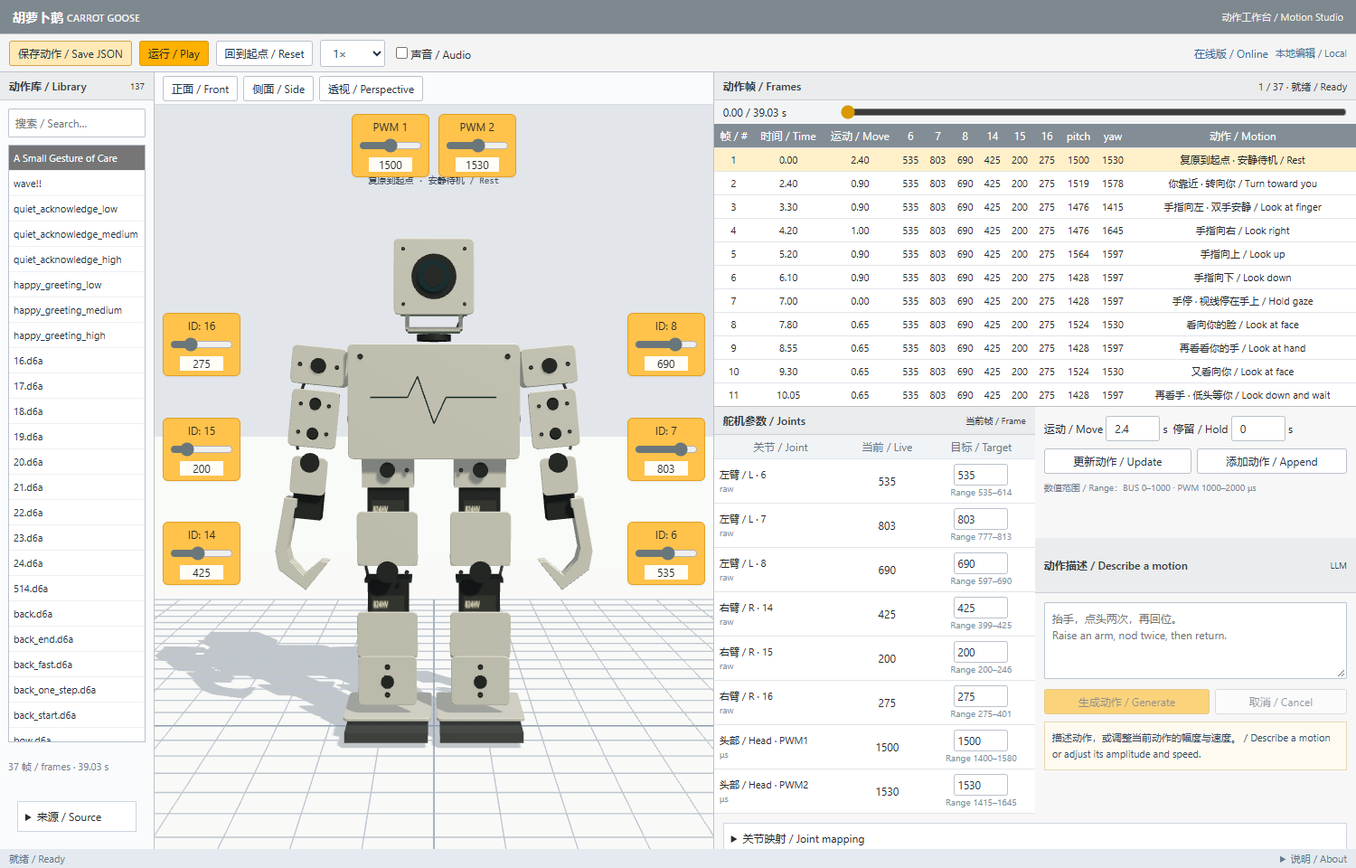
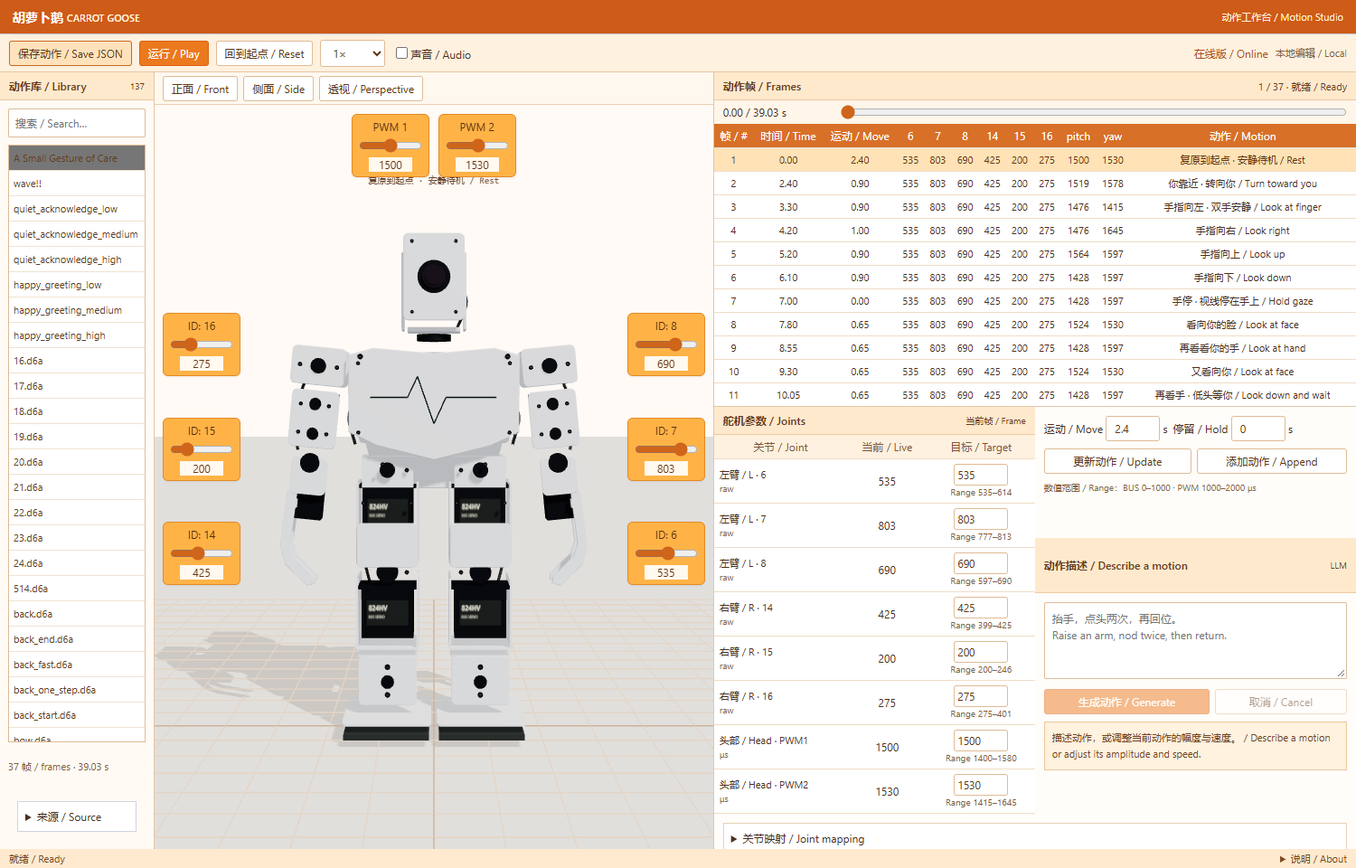
Refine TonyPi model and launch orange workbench on carrotgoose.online

diff --git a/apps/studio/robot.js b/apps/studio/robot.js
@@ -2,7 +2,7 @@ import * as T from 'three';
 // Photo-based approximation. Dimensions and hinge placement are not factory CAD.
 export function createRobot(scene){
  const mat=(c,m=0)=>new T.MeshStandardMaterial({color:c,metalness:m,roughness:.38});
- const white=mat('#e4e6e1',.45),black=mat('#202424',.15),metal=mat('#959f9e',.8),rubber=mat('#393d3c'),blue=mat('#183740',.5);
+ const white=mat('#f7f8fb',.12),black=mat('#171a20',.08),metal=mat('#959f9e',.8),rubber=mat('#393d3c'),blue=mat('#322632',.3);
  const root=new T.Group();scene.add(root);const joints={};
  function group(p,n,xyz){let g=new T.Group();g.name=n;g.position.set(...xyz);p.add(g);return g;}
  function mesh(p,geo,xyz,material=white){let m=new T.Mesh(geo,material);m.position.set(...xyz);m.castShadow=true;m.receiveShadow=true;p.add(m);return m;}
@@ -13,14 +13,20 @@ export function createRobot(scene){
  function label(p,text,pos,w,h){let c=document.createElement('canvas');c.width=256;c.height=128;let ctx=c.getContext('2d');ctx.fillStyle='#242826';ctx.fillRect(0,0,256,128);ctx.fillStyle='#e0dfcc';ctx.font='bold 34px sans-serif';ctx.fillText(text,12,52);ctx.font='18px sans-serif';ctx.fillText('BUS SERVO',12,91);let tex=new T.CanvasTexture(c);tex.colorSpace=T.SRGBColorSpace;return mesh(p,new T.PlaneGeometry(w,h),pos,new T.MeshStandardMaterial({map:tex,roughness:.7}));}
  function servo(p,pos,w=.035,h=.049){box(p,pos,[w,h,.035],black);box(p,[pos[0],pos[1]+h/2,pos[2]],[w+.006,.003,.038],black);label(p,'824HV',[pos[0],pos[1],pos[2]+.0178],w*.8,h*.5);}
  function wire(p,points){let curve=new T.CatmullRomCurve3(points.map(v=>new T.Vector3(...v)));return mesh(p,new T.TubeGeometry(curve,24,.0015,6,false),[0,0,0],rubber);}
- // Torso sheet metal, exposed side cavity and circuit enclosure.
- plate(root,[0,.311,.036],.156,.104);plate(root,[0,.311,-.035],.15,.1);box(root,[0,.352,0],[.147,.005,.07]);box(root,[0,.265,0],[.123,.005,.061]);box(root,[0,.315,-.015],[.115,.07,.038],black);
+ function polygon(p,points,z,material=white){const s=new T.Shape();s.moveTo(...points[0]);points.slice(1).forEach(v=>s.lineTo(...v));s.closePath();return mesh(p,new T.ExtrudeGeometry(s,{depth:.002,bevelEnabled:true,bevelSize:.001,bevelThickness:.0008,bevelSegments:3}),[0,0,z],material);}
+ // Folded shield panels and waist bracket follow the front reference.
+
+ polygon(root,[[-.077,.353],[-.055,.359],[0,.354],[.055,.359],[.077,.353],[.077,.284],[.052,.272],[0,.259],[-.052,.272],[-.077,.284]],.036);
+ plate(root,[0,.315,-.035],.145,.087);box(root,[0,.353,0],[.147,.004,.07]);box(root,[0,.279,-.012],[.118,.004,.052]);box(root,[0,.32,-.017],[.112,.062,.031],black);
+ polygon(root,[[-.066,.282],[.066,.282],[.052,.231],[-.052,.231]],.004);
+ for(const side of [-1,1]){box(root,[side*.075,.315,0],[.002,.068,.067]);for(const y of [.346,.283,.254])screw(root,side*(y<.26?.047:.069),y,.04,.0018);}
+
  const pulse=[[-.058,.315,.039],[-.024,.315,.039],[-.015,.334,.039],[0,.291,.039],[.011,.315,.039],[.057,.315,.039]];root.add(new T.Line(new T.BufferGeometry().setFromPoints(pulse.map(p=>new T.Vector3(...p))),new T.LineBasicMaterial({color:0x172623})));
  for(const side of [-1,1]){wire(root,[[side*.061,.34,-.029],[side*.082,.3,-.031],[side*.075,.27,-.01]]);screw(root,side*.067,.352,.04);}
  // Bracketed head: yaw ring, U bracket, tilting camera casing.
  cylinder(root,[0,.371,0],.016,.006,black).rotation.x=0;
- joints.yaw=group(root,'PWM2_yaw',[0,.378,0]);box(joints.yaw,[0,0,0],[.049,.004,.034]);for(const side of [-1,1])box(joints.yaw,[side*.025,.018,0],[.003,.036,.036]);
- joints.pitch=group(joints.yaw,'PWM1_pitch',[0,.047,0]);plate(joints.pitch,[0,0,.029],.072,.068,[[0,0,.02]]);box(joints.pitch,[0,0,-.008],[.063,.059,.051],white);box(joints.pitch,[0,-.027,.001],[.063,.01,.054],white);cylinder(joints.pitch,[0,0,.03],.0205,.006,black);cylinder(joints.pitch,[0,0,.034],.0145,.006,blue);cylinder(joints.pitch,[0,0,.038],.010,.0015,black);for(const x of [-.028,.028])for(const y of [-.025,.025])screw(joints.pitch,x,y,.032,.0016);wire(joints.yaw,[[.021,0,-.017],[.031,.03,-.024],[.02,.049,-.029]]);
+ joints.yaw=group(root,'PWM2_yaw',[0,.378,0]);box(joints.yaw,[0,0,0],[.049,.004,.034]);for(const side of [-1,1])box(joints.yaw,[side*.029,.035,0],[.002,.07,.042]);
+ joints.pitch=group(joints.yaw,'PWM1_pitch',[0,.047,0]);plate(joints.pitch,[0,0,.029],.055,.078,[[0,-.001,.014]]);box(joints.pitch,[0,0,-.008],[.05,.069,.044],white);box(joints.pitch,[0,-.027,.001],[.05,.007,.047],white);cylinder(joints.pitch,[0,0,.03],.015,.004,black);cylinder(joints.pitch,[0,0,.034],.0105,.003,blue);cylinder(joints.pitch,[0,0,.038],.0078,.001,blue);for(const x of [-.02,.02])for(const y of [-.032,.032])screw(joints.pitch,x,y,.032,.0016);box(joints.pitch,[0,.022,.031],[.0012,.025,.0007],metal);wire(joints.yaw,[[.021,0,-.017],[.031,.03,-.024],[.02,.049,-.029]]);
  // Arm joints remain explicitly provisional. Thin plates and hollow grippers follow the photo.
  for(const [side,ids]of [[1,['6','7','8']],[-1,['14','15','16']]]){
    let a=group(root,'BUS_'+ids[0],[side*.106,.344,0]);let b=group(a,'BUS_'+ids[1],[0,0,0]);let c=group(b,'BUS_'+ids[2],[0,-.09,0]);ids.forEach((id,i)=>joints[id]=[a,b,c][i]);
@@ -28,14 +34,14 @@ export function createRobot(scene){
    servo(b,[0,-.048,0],.031,.044);plate(b,[0,-.049,.024],.043,.052,[[0,.014,.006],[0,-.014,.006]]);for(const y of [-.036,-.062]){cylinder(b,[0,y,.027],.005,.003,black);for(const x of [-.013,.013])screw(b,x,y,.028,.0018);}
    wire(b,[[side*.016,-.015,-.018],[side*.025,-.05,-.024],[side*.016,-.081,-.012]]);
    cylinder(c,[0,0,.022],.009,.006,black);plate(c,[0,-.012,.022],.032,.034,[[0,.01,.006]]);box(c,[0,-.038,0],[.027,.031,.027],black);
-   let shape=new T.Shape();const pts=[[-.02,-.035],[-.024,-.085],[-.019,-.102],[.007,-.118],[.025,-.091],[.019,-.091],[.004,-.106],[-.01,-.093],[-.014,-.082],[-.01,-.035]];const mirror=-side;shape.moveTo(pts[0][0]*mirror,pts[0][1]);pts.slice(1).forEach(p=>shape.lineTo(p[0]*mirror,p[1]));shape.closePath();let grip=mesh(c,new T.ExtrudeGeometry(shape,{depth:.003,bevelEnabled:true,bevelSize:.0006,bevelThickness:.0005,bevelSegments:2}),[0,0,.019]);
-   for(let z of [.008,-.003]){let clone=grip.clone();clone.position.z=z;c.add(clone);}box(c,[.012*side,-.039,.008],[.006,.008,.031]);
+   let shape=new T.Shape();const pts=[[-.018,-.028],[-.02,-.079],[-.014,-.096],[.008,-.114],[.015,-.111],[.014,-.106],[-.007,-.089],[-.012,-.077],[-.01,-.029]];const mirror=-side;shape.moveTo(pts[0][0]*mirror,pts[0][1]);pts.slice(1).forEach(p=>shape.lineTo(p[0]*mirror,p[1]));shape.closePath();let grip=mesh(c,new T.ExtrudeGeometry(shape,{depth:.003,bevelEnabled:true,bevelSize:.0006,bevelThickness:.0005,bevelSegments:2}),[0,0,.019]);
+   for(let z of [-.006]){let clone=grip.clone();clone.position.z=z;c.add(clone);}box(c,[.012*side,-.039,.008],[.006,.008,.031]);
  }
  // Exposed hip/knee servos and folded leg brackets, with photographed broad feet.
  for(const side of [-1,1]){let x=side*.043;box(root,[x,.246,0],[.048,.029,.045],white);cylinder(root,[x,.248,.028],.007,.006,black);screw(root,x-side*.018,.248,.029,.002);
-   servo(root,[x,.205,0],.038,.057);plate(root,[x,.185,.031],.055,.049);box(root,[x,.161,0],[.055,.003,.061]);cylinder(root,[x,.154,.033],.01,.004,black);screw(root,x-side*.018,.154,.035,.002);
-   servo(root,[x,.116,0],.038,.055);plate(root,[x,.096,.033],.055,.041);box(root,[x,.075,0],[.055,.003,.061]);plate(root,[x,.053,.034],.053,.045,[[0,0,.006]]);for(const y of [.04,.066])screw(root,x,y,.037,.0025);cylinder(root,[x,.052,.037],.006,.003,black);
-   plate(root,[x,.019,0],.08,.10).rotation.x=-Math.PI/2;box(root,[x,.01,.025],[.075,.009,.1],rubber);wire(root,[[x,.25,-.02],[x+side*.025,.17,-.024],[x,.081,-.029]]);
+   servo(root,[x,.209,.003],.047,.047);plate(root,[x,.179,.033],.055,.04);for(const side2 of [-1,1]){box(root,[x+side2*.028,.199,0],[.002,.075,.06]);for(const y of [.218,.167])screw(root,x+side2*.022,y,.034,.0017);}box(root,[x,.161,0],[.055,.003,.061]);cylinder(root,[x,.154,.033],.01,.004,black);screw(root,x-side*.018,.154,.035,.002);
+   servo(root,[x,.116,.016],.048,.047);for(const side2 of [-1,1])box(root,[x+side2*.028,.115,.006],[.002,.064,.062]);box(root,[x,.083,.006],[.057,.002,.063]);box(root,[x,.075,0],[.055,.003,.061]);plate(root,[x,.053,.034],.053,.045,[[0,0,.006]]);for(const y of [.04,.066])screw(root,x,y,.037,.0025);cylinder(root,[x,.052,.037],.006,.003,black);
+   plate(root,[x,.019,.019],.08,.10).rotation.x=-Math.PI/2;box(root,[x,.01,.025],[.077,.005,.098],rubber);wire(root,[[x,.25,-.02],[x+side*.025,.17,-.024],[x,.081,-.029]]);
  }
  return {root,joints};
 }

diff --git a/apps/studio/index.html b/apps/studio/index.html
@@ -1,10 +1,10 @@
-<!doctype html><html lang="zh-CN"><meta charset="utf-8"><meta name="viewport" content="width=device-width,initial-scale=1"><title>Carrot Goose · 胡萝卜鹅</title><link rel="stylesheet" href="./workbench.css?v=3"><script type="importmap">{"imports":{"three":"./vendor/three.module.js"}}</script>
+<!doctype html><html lang="zh-CN"><meta charset="utf-8"><meta name="viewport" content="width=device-width,initial-scale=1"><title>Carrot Goose · 胡萝卜鹅</title><link rel="stylesheet" href="./workbench.css?v=4"><script type="importmap">{"imports":{"three":"./vendor/three.module.js"}}</script>
 <header><h1>胡萝卜鹅 <span>CARROT GOOSE</span></h1><span>动作工作台 / Motion Studio</span></header>
-<nav class="toolbar"><button id="save-motion">保存动作 / Save JSON</button><button id="play" class="primary">运行 / Play</button><button id="reset">回到起点 / Reset</button><select id="speed"><option value=".5">0.5×</option><option value="1" selected>1×</option><option value="1.5">1.5×</option></select><input type="checkbox" id="audio" hidden><span class="spacer"></span><a href="https://carrotduck.online/xiaoji-studio/" id="online-link" target="_blank" rel="noopener">在线版 / Online</a><span id="connection">连接中 / Connecting…</span></nav>
+<nav class="toolbar"><button id="save-motion">保存动作 / Save JSON</button><button id="play" class="primary">运行 / Play</button><button id="reset">回到起点 / Reset</button><select id="speed"><option value=".5">0.5×</option><option value="1" selected>1×</option><option value="1.5">1.5×</option></select><input type="checkbox" id="audio" hidden><span class="spacer"></span><a href="https://carrotduck.online/xiaoji-studio/" id="online-link" target="_blank" rel="noopener">在线版 / Online</a><button id="account-button" hidden>登录 / Sign in</button><span id="connection">连接中 / Connecting…</span></nav>
 <main><aside class="left"><div class="panelhead">动作库 / Library <span id="library-count"></span></div><div class="content"><input id="search" type="search" placeholder="搜索 / Search…"><select id="action" size="18" aria-label="动作库 / Motion library"></select><p id="evidence"></p><details><summary>来源 / Source</summary><div id="source"></div></details></div></aside>
 <section class="stage"><div class="viewportbar"><button id="front">正面 / Front</button><button id="side">侧面 / Side</button><button id="perspective">透视 / Perspective</button><span>拖动旋转 / Drag to orbit</span></div><div id="view"><div id="servo-sliders" aria-label="舵机滑块 / Servo sliders"></div><div id="caption"><div id="beat">载入中 / Loading…</div><span>3D 预览 / Preview</span></div><div id="dialogue"></div></div></section>
 <aside class="right"><div class="panelhead">舵机参数 / Joints <span>当前帧 / Frame</span></div><table class="joint-table"><thead><tr><th>关节 / Joint</th><th>当前 / Live</th><th>目标 / Target</th></tr></thead><tbody id="joint-rows"></tbody></table><div id="values"></div><div class="pad"><div class="row"><label>运动 / Move <input id="move-time" type="number" min=".05" max="10" step=".05" value="1" style="width:60px"> s</label><label>停留 / Hold <input id="hold-time" type="number" min="0" max="10" step=".1" value="0" style="width:60px"> s</label></div><div class="row"><button id="apply-frame">更新动作 / Update</button><button id="append-frame">添加动作 / Append</button></div><p class="hint">数值范围 / Range：BUS 0–1000 · PWM 1000–2000 μs</p></div>
 <div class="panelhead">动作描述 / Describe a motion <span>LLM</span></div><div class="pad"><textarea id="instruction" placeholder="抬手，点头两次，再回位。&#10;Raise an arm, nod twice, then return."></textarea><div class="row" style="margin-top:8px"><button id="generate" class="primary">生成动作 / Generate</button><button id="cancel-plan" disabled>取消 / Cancel</button></div><div id="plan-result">描述动作，或调整当前动作的幅度与速度。 / Describe a motion or adjust its amplitude and speed.</div><div id="range-report"></div></div>
 <details><summary>关节映射 / Joint mapping</summary><div><select id="joint"></select> <select id="axis"><option>x</option><option>y</option><option>z</option></select> <select id="sign"><option value="1">+1</option><option value="-1">−1</option></select><button id="export">保存映射 / Save mapping</button><pre id="raw"></pre></div></details>
 <details><summary>事件调试 / Events</summary><div><textarea id="event"></textarea><button id="example">示例 / Example</button><button id="accept">接收 / Receive</button><p id="error"></p></div></details></aside>
-<section id="frame-editor"><div class="panelhead">动作帧 / Frames <span id="phase"></span></div><div class="time-row"><span id="clock">0 / 0 s</span><input id="time" type="range" min="0" max="1" step=".001" value="0" aria-label="时间轴 / Timeline"></div><div id="frames"></div></section></main><footer><span id="status">就绪 / Ready</span><details class="about"><summary>说明 / About</summary><div>此工作台用于动作预览；数值范围是编码范围，模型轴向需要实机标定。<br>This workbench previews motion. Input ranges are encoding limits; joint axes require calibration.</div></details></footer><script type="module" src="./studio.js?v=3"></script></html>
+<section id="frame-editor"><div class="panelhead">动作帧 / Frames <span id="phase"></span></div><div class="time-row"><span id="clock">0 / 0 s</span><input id="time" type="range" min="0" max="1" step=".001" value="0" aria-label="时间轴 / Timeline"></div><div id="frames"></div></section></main><footer><span id="status">就绪 / Ready</span><details class="about"><summary>说明 / About</summary><div><a href="./project.html">工作台的作用 / About this workbench</a><br>此工作台用于动作预览；数值范围是编码范围，模型轴向需要实机标定。<br>This workbench previews motion. Input ranges are encoding limits; joint axes require calibration.</div></details></footer><dialog id="account-dialog"><form id="account-form"><h2>连接鸭鸭账号 / Sign in</h2><p>输入已有账号的专属恢复链接。 / Enter your account recovery key.</p><input id="recovery-key" type="password" autocomplete="off" required aria-label="恢复链接 / Recovery key"><p id="account-error"></p><button type="submit">登录 / Sign in</button><button type="button" id="account-close">取消 / Cancel</button></form></dialog><script type="module" src="./studio.js?v=4"></script></html>

diff --git a/apps/studio/studio.js b/apps/studio/studio.js
@@ -1,19 +1,19 @@
 import * as T from 'three';
-import {createRobot} from './robot.js?v=3';
+import {createRobot} from './robot.js?v=4';
 import {OrbitControls} from './vendor/OrbitControls.js';
 const labels={"复原到起点 · 安静待机": "Rest", "你靠近 · 转向你": "Turn toward you", "手指向左 · 双手安静": "Look at finger", "手指向右": "Look right", "手指向上": "Look up", "手指向下": "Look down", "手停 · 视线停在手上": "Hold gaze", "看向你的脸": "Look at face", "再看看你的手": "Look at hand", "又看向你": "Look at face", "再看手 · 低头等你": "Look down and wait", "你的第一句文字": "First question", "不告诉你 · 文字先出现": "Wait for reply", "轻轻点头 · 低下": "Nod", "点头以后 · 抬头看你": "Look up at you", "让开心停留一下": "Pause", "Cheer · 双臂前抬与点头摇摆 · 1/5": "Cheer", "Cheer · 双臂前抬与点头摇摆 · 2/5": "Cheer", "Cheer · 双臂前抬与点头摇摆 · 3/5": "Cheer", "Cheer · 双臂前抬与点头摇摆 · 4/5": "Cheer", "Cheer · 双臂前抬与点头摇摆 · 5/5": "Cheer", "再看你 · 等你的手移开": "Look at hand", "手指已移开 · 注意到离开": "Hand withdraws", "第一次轻轻抬手": "Raise arm", "犹豫 · 缩回一点": "Hesitate", "Hey · 看向你的脸": "Hey, look at face", "再看你的手 · 决定邀请": "Look at hand", "第二次邀请 · 胸前停住": "Invite again", "坚定地等你 · 看手再看脸": "Nod and look back", "你的第二句文字": "Second question", "拥抱回复出现 · 保持邀请": "Read hug reply", "双臂向前 · 邀请拥抱 · 1/3": "Offer hug", "双臂向前 · 邀请拥抱 · 2/3": "Offer hug", "双臂向前 · 邀请拥抱 · 3/3": "Offer hug", "一个不接触的拥抱 · 停留": "Hold invitation", "自然放下双臂": "Lower arms", "拥抱后看向你 · 回到待机": "Return to rest"};
 const label=x=>labels[x]?x+" / "+labels[x]:x;
 const $=id=>document.getElementById(id);
 const library=await (await fetch('./library.json')).json(), mapping=structuredClone(library.mapping);
-const scene=new T.Scene();scene.background=new T.Color('#e2e6eb');
+const scene=new T.Scene();scene.background=new T.Color('#fffaf5');
 const camera=new T.PerspectiveCamera(34,1,.01,20);camera.position.set(0,.31,1.15);
-const renderer=new T.WebGLRenderer({antialias:true,preserveDrawingBuffer:true});renderer.setPixelRatio(Math.min(devicePixelRatio,2));renderer.shadowMap.enabled=true;renderer.shadowMap.type=T.PCFSoftShadowMap;renderer.setClearColor('#e2e6eb');$('view').prepend(renderer.domElement);
+const renderer=new T.WebGLRenderer({antialias:true,preserveDrawingBuffer:true});renderer.toneMapping=T.ACESFilmicToneMapping;renderer.toneMappingExposure=1.0;renderer.setPixelRatio(Math.min(devicePixelRatio,2));renderer.shadowMap.enabled=true;renderer.shadowMap.type=T.PCFSoftShadowMap;renderer.setClearColor('#fffaf5');$('view').prepend(renderer.domElement);
 const controls=new OrbitControls(camera,renderer.domElement);controls.target.set(0,.24,0);controls.enableDamping=true;controls.minDistance=.5;controls.maxDistance=2.2;controls.maxPolarAngle=Math.PI*.49;
-scene.add(new T.HemisphereLight(0xffffff,0x748773,2.6));const light=new T.DirectionalLight(0xfff5df,3);light.position.set(.6,1,1);light.castShadow=true;light.shadow.mapSize.set(2048,2048);light.shadow.camera.left=-.8;light.shadow.camera.right=.8;light.shadow.camera.top=.8;light.shadow.camera.bottom=-.8;light.shadow.normalBias=.002;scene.add(light);
+scene.add(new T.HemisphereLight(0xffffff,0xc4c8cd,2.0));const light=new T.DirectionalLight(0xffffff,2.0);light.position.set(.6,1,1);light.castShadow=true;light.shadow.mapSize.set(2048,2048);light.shadow.camera.left=-.8;light.shadow.camera.right=.8;light.shadow.camera.top=.8;light.shadow.camera.bottom=-.8;light.shadow.normalBias=.002;scene.add(light);
 const {root:robot,joints}=createRobot(scene);
 const material=c=>new T.MeshStandardMaterial({color:c,roughness:.85});
-const floor=new T.Mesh(new T.PlaneGeometry(20,20),material('#d2d7dd'));floor.rotation.x=-Math.PI/2;floor.receiveShadow=true;scene.add(floor);
-const grid=new T.GridHelper(1.5,30,0x8c9daf,0xbdc5cf);grid.position.y=.001;scene.add(grid);
+const floor=new T.Mesh(new T.PlaneGeometry(20,20),material('#f4ece3'));floor.rotation.x=-Math.PI/2;floor.receiveShadow=true;scene.add(floor);
+const grid=new T.GridHelper(1.5,30,0xccb49e,0xe4d5c6);grid.position.y=.001;scene.add(grid);
 const resize=new ResizeObserver(()=>{const w=$('view').clientWidth,h=$('view').clientHeight;renderer.setSize(w,h);camera.aspect=w/h;camera.updateProjectionMatrix();});resize.observe($('view'));
 let current=library.actions[0],time=0,playing=false,last=performance.now(),lastFrame=-1,audioInstance=null,run=crypto.randomUUID(),sequence=0,seen=new Set();
 let log=[];const note=(status,extra={})=>{log.push({schema:'duck-sim-playback/v1',mode:'simulation_only',hardware_executed:false,simulation_run_id:run,status,...extra});};
@@ -43,4 +43,5 @@ options();choose(current);updateMappingControls();
 window.studio={label,library,sample,seek,choose,acceptEvent,get current(){return current},addAction(a){library.actions.push(a);$('search').value='';choose(a);options();},get state(){return {time,playing,action:current.name,run,sequence,log,pose:sample(current,time).pose}},renderer,scene};
 function tick(now){const dt=Math.min(.1,(now-last)/1000);last=now;if(playing){time=Math.min(current.duration,time+dt*Number($('speed').value));drawPose();if(time>=current.duration){playing=false;stopAudio();$('play').textContent='运行 / Play';note('completed',{action:current.name});drawPose();}}controls.update();renderer.render(scene,camera);requestAnimationFrame(tick);}requestAnimationFrame(tick);
 
-await import('./editor.js?v=3');
+await import('./editor.js?v=4');
+

diff --git a/apps/studio/workbench.css b/apps/studio/workbench.css
@@ -4,3 +4,7 @@
 :root{background:#e8e8e8;color:#292b2d}header{background:#7e888f;color:white}header span{color:#eef0f1}main{grid-template-columns:170px minmax(400px,1fr) minmax(470px,1.15fr);grid-template-rows:43% 57%;height:calc(100vh - 102px);min-height:720px;background:#bfc2c4}.left{grid-column:1;grid-row:1/3}.stage{grid-column:2;grid-row:1/3}.right{grid-column:3;grid-row:2;display:grid;grid-template-columns:1fr 1fr;align-content:start;background:#f7f7f7}.right>.panelhead:first-child,.right>.joint-table,.right>#values{grid-column:1}.right>.pad{grid-column:2}.right>.panelhead:nth-of-type(4){grid-column:1/-1}.right>details{grid-column:1/-1}.right .panelhead{height:auto;min-height:31px}.right>.joint-table{grid-row:2/5}.right>.pad:nth-of-type(3){grid-row:1/3}.right>.panelhead:nth-of-type(4){grid-column:2;grid-row:3}.right>.pad:nth-of-type(5){grid-row:4;grid-column:2}#frame-editor{grid-column:3;grid-row:1}.panelhead{background:#eaeced;color:#353c42}.panelhead span{font-weight:400;font-size:10px}.toolbar{background:#f4f4f4}.primary,button.primary{background:#ffb000;color:#252525;border-color:#d59c24}button:hover{background:#ffe9b6;border-color:#d5a64c}.frame-table th{background:#838d95;color:white}.frame-table tbody tr.selected{background:#fff0c9;color:#242424}#time{accent-color:#d99900}#caption>span{display:none}#caption{left:50%;transform:translateX(-50%);width:50%;text-align:center;font-size:10px;top:76px}#beat{font-size:10px}#plan-result{background:#fffaf0;border-color:#e6d6b2;font-size:11px}#instruction{min-height:85px}.row{flex-wrap:wrap}.row button{flex:auto}.joint-table input{width:60px}.joint-table td:first-child{padding-left:6px;font-size:11px}#servo-sliders{position:absolute;inset:0;pointer-events:none;z-index:2}.servo-card{position:absolute;pointer-events:auto;width:86px;padding:5px 7px;background:#ffc24a;border:1px solid #e2a125;border-radius:6px;text-align:center;color:#282c2d;font-size:12px;box-shadow:0 1px 2px #0001}.servo-card input{display:block;width:100%;accent-color:#69777b;margin:5px 0}.servo-card output{display:block;background:#fffdf6;margin:auto;width:48px;font-variant-numeric:tabular-nums}.servo-pitch{left:calc(50% - 91px);top:10px}.servo-yaw{right:calc(50% - 91px);top:10px}.servo-16{left:9px;top:28%}.servo-15{left:9px;top:42%}.servo-14{left:9px;top:56%}.servo-8{right:9px;top:28%}.servo-7{right:9px;top:42%}.servo-6{right:9px;top:56%}footer .about{border:0;background:transparent;margin:0;position:relative}footer summary{padding:0}footer .about[open]>div{position:absolute;right:0;bottom:24px;width:400px;background:white;padding:12px;border:1px solid #bbb;line-height:1.6;z-index:5}.viewportbar span{display:none}.viewportbar{height:36px}.hint{font-size:10px}#action option{padding:6px 5px;font-size:11px}
 @media(max-width:1150px){main{grid-template-columns:140px minmax(340px,1fr) minmax(390px,1.1fr)}.right{display:block}.servo-card{width:72px}.toolbar{font-size:11px}.joint-table td{padding:3px}.right>.joint-table{width:100%}}
 @media(max-width:800px){main{display:flex;height:auto;min-height:0}.left{width:25%;height:560px}.stage{width:75%;height:560px}#frame-editor{width:100%;height:260px}.right{width:100%;display:block}.servo-card{width:67px;padding:4px}.toolbar{height:auto}header{height:38px}.servo-pitch{left:calc(50% - 72px)}.servo-yaw{right:calc(50% - 72px)}}
+
+/* Orange workbench palette. Neutral surfaces keep the robot and frame values legible. */
+:root{color:#4a3022;background:#fff8f0}header{background:#ce5b17;color:white}header span{color:#fff1df}.toolbar{background:#fff1df;border-color:#e8c5a4}button,select,input[type=number]{border-color:#dfbb96;color:#603717}button.primary{background:#eb791e;border-color:#d96313;color:#fff}button:hover{background:#ffe2bc;border-color:#c96a21}a,.toolbar a{color:#ac4d16}.panelhead{background:#ffe9cd;color:#693a1f;border-color:#edc9a1}.frame-table th{background:#d87028;color:#fff}.frame-table td,.joint-table td,.joint-table th{border-color:#f0dcc6}.joint-table th{background:#fff1df;color:#805337}.frame-table tbody tr.selected{background:#ffe2b6;color:#68310b}.frame-table tbody tr:hover{background:#fff0da}.servo-card{background:#ffb347;border-color:#e68a25;color:#58300c}.servo-card input,#time{accent-color:#ce651b}.servo-card output{background:#fff9ef;color:#663510}.viewportbar{background:#fff8ef;border-color:#ebcfb0}.right,section,aside{background:#fffdfa}.left .content{background:#fffaf4}#action option{color:#633c22;border-color:#f1e2d1}#search,textarea{border-color:#ddbc99}#plan-result{background:#fff2de;border-color:#edc79b;color:#734220}footer{background:#ffeacf;color:#7a481f;border-color:#dfb286}#connection,.hint,#evidence,#source,.joint-table output,.joint-table small{color:#865e3c}.time-row{background:#fff5e8}main{background:#e4c6a6}#caption,#beat,#dialogue{color:#69452c}.right details{border-color:#ead2b8}.about a{color:#a74b12}
+#account-dialog{border:1px solid #dea16a;border-radius:8px;max-width:420px;width:90%;padding:24px;color:#59351f}#account-dialog::backdrop{background:#35231566}#account-dialog input{width:100%;padding:9px;margin:12px 0;border:1px solid #d9b792}#account-dialog button{margin-right:8px}#account-error{color:#a13e17}

diff --git a/apps/studio/editor.js b/apps/studio/editor.js
@@ -14,11 +14,15 @@ function commit(append){try{s.seek(s.state.time);const p=Object.fromEntries(IDS.
 $('apply-frame').onclick=()=>commit(false);$('append-frame').onclick=()=>commit(true);
 $('save-motion').onclick=()=>{let blob=new Blob([JSON.stringify({schema:'xiaoji-sim-motion/v1',mode:'simulation_only',hardware_executed:false,action:s.current},null,2)],{type:'application/json'}),url=URL.createObjectURL(blob),a=document.createElement('a');a.href=url;a.download='carrot-goose-motion.json';a.click();URL.revokeObjectURL(url);};
 const local=['127.0.0.1','localhost'].includes(location.hostname);
-const online=/^(www\.)?carrotduck\.online$/.test(location.hostname),uid=()=>local?'local':localStorage.getItem('carrotduck_user_id'),token=()=>local?'local':localStorage.getItem('carrotduck_session_token');
-function connection(){const ready=(local||online)&&uid()&&token();$('connection').textContent=ready?(local?'本地 / Local':'已登录 / Signed in'):online?'请登录 / Sign in':'本地编辑 / Local';$('generate').disabled=busy||!ready;$('online-link').textContent=online?'鸭鸭 / Carrot Duck':'在线版 / Online';if(online){$('online-link').href=location.origin+'/';}return ready;}connection();
+const online=/^(www\.)?(?:carrotduck|carrotgoose)\.online$/.test(location.hostname),uid=()=>local?'local':localStorage.getItem('carrotduck_user_id'),token=()=>local?'local':localStorage.getItem('carrotduck_session_token');
+function connection(){const ready=(local||online)&&uid()&&token();$('connection').textContent=ready?(local?'本地 / Local':'已登录 / Signed in'):online?'请登录 / Sign in':'本地编辑 / Local';$('generate').disabled=busy||!ready;$('online-link').textContent=online?'鸭鸭 / Carrot Duck':'在线版 / Online';if(online){$('online-link').href='https://carrotduck.online/';}$('account-button').hidden=!online||!!(uid()&&token());return ready;}connection();
 function cancel(reason='已取消 / Cancelled'){generation++;abort?.abort();abort=null;busy=false;$('cancel-plan').disabled=true;connection();$('plan-result').textContent=reason;}
 $('cancel-plan').onclick=()=>cancel();$('reset').addEventListener('click',()=>{if(busy)cancel();});window.addEventListener('storage',e=>{if(['carrotduck_user_id','carrotduck_session_token'].includes(e.key)){cancel('账号已变更 / Account changed');s.seek(0);connection();}});
 $('generate').onclick=async()=>{if(!connection())return;const prompt=$('instruction').value.trim();if(!prompt)return;let user=uid(),session=token(),epoch=++generation;abort=new AbortController();busy=true;connection();$('cancel-plan').disabled=false;$('plan-result').textContent='生成中 / Planning…';const timeout=setTimeout(()=>abort?.abort(),65000);try{const context={name:s.current.name,initial:Object.fromEntries(IDS.map(k=>[k,s.current.initial[k]??IDLE[k]])),steps:s.current.frames.slice(0,100).map(f=>({pose:Object.fromEntries(IDS.map(k=>[k,f.target[k]??IDLE[k]])),move_s:f.move,hold_s:Math.max(0,f.duration-f.move),label:f.label}))};const res=await fetch(`/api/chat/${encodeURIComponent(user)}/simulation/plan`,{method:'POST',headers:{'Content-Type':'application/json',Authorization:`Bearer ${session}`},body:JSON.stringify({request_id:crypto.randomUUID(),prompt,current:context}),signal:abort.signal});let payload=await res.json();if(!res.ok)throw Error(payload.error||'生成失败 / Planning failed');if(epoch!==generation||uid()!==user||token()!==session)return;if(payload.mode!=='simulation_only'||payload.hardware_executed!==false||!payload.action)throw Error('动作格式错误 / Invalid motion format');applyingPlan=true;try{s.addAction(payload.action);}finally{applyingPlan=false;}$('plan-result').textContent=`${payload.action.name}\n${payload.action.explanation}\n${payload.action.frames.length} 帧 / frames · ${payload.action.duration.toFixed(2)} s\n运行以预览 / Play to preview`;$('status').textContent='动作已生成 / Motion ready';}catch(e){if(epoch===generation)$('plan-result').textContent=e.name==='AbortError'?'请求取消或超时 / Cancelled or timed out':e.message;}finally{clearTimeout(timeout);if(epoch===generation){busy=false;abort=null;$('cancel-plan').disabled=true;connection();}}};
 window.editor={loadFrame,refresh,cancel};
 
 window.addEventListener('studio-action',()=>{if(busy&&!applyingPlan)cancel('已切换动作 / Motion changed');});
+
+$('account-button').onclick=()=>$('account-dialog').showModal();
+$('account-close').onclick=()=>$('account-dialog').close();
+$('account-form').onsubmit=async e=>{e.preventDefault();const input=$('recovery-key');$('account-error').textContent='';try{const r=await fetch('/api/users/recover',{method:'POST',headers:{'Content-Type':'application/json'},body:JSON.stringify({recovery_key:input.value.trim()})});const data=await r.json();if(!r.ok||!data.user?.id||!data.session_token)throw Error('登录失败，请检查恢复链接。 / Check your recovery key.');localStorage.setItem('carrotduck_user_id',data.user.id);localStorage.setItem('carrotduck_session_token',data.session_token);input.value='';$('account-dialog').close();connection();}catch(err){$('account-error').textContent=err.message;}};

diff --git a/apps/studio/project.html b/apps/studio/project.html
@@ -1,0 +1,1 @@
+<!doctype html><html lang="zh-CN"><meta charset="utf-8"><meta name="viewport" content="width=device-width,initial-scale=1"><title>Carrot Goose · 动作工作台</title><style>body{margin:0;background:#fffaf3;color:#57361f;font:16px/1.8 system-ui,sans-serif}main{max-width:960px;margin:auto;padding:48px 24px}a{color:#b54f15}h1{font-size:32px}h2{margin-top:42px}small{display:block;color:#966a48}table{width:100%;border-collapse:collapse}td,th{padding:16px;text-align:left;border-bottom:1px solid #edceb0}th{background:#ffe4bf}img{width:100%;border:1px solid #edceb0}p{max-width:760px}</style><main><a href="./">← 胡萝卜鹅 / Carrot Goose</a><h1>从舵机编程到动作排练<small>From servo programming to motion rehearsal</small></h1><p>胡萝卜鹅沿用 TonyPi 上位机的关节编号、数值和逐帧编排方式，将它们放进可以旋转观察的 3D 工作台。动作、台词与停顿可以先在浏览器里反复调整，再进入真机排练。</p><p>Carrot Goose brings TonyPi joint values and frame editing into a 3D workbench. It helps compose gestures around dialogue, compare poses and revise timing before a physical rehearsal.</p><table><thead><tr><th>TonyPi 上位机<br>Servo editor</th><th>胡萝卜鹅工作台<br>Carrot Goose</th></tr></thead><tbody><tr><td>参考图标注舵机位置与编号<br>Joint IDs on a reference image</td><td>旋转模型，查看动作姿态<br>Rotate the model and inspect poses</td></tr><tr><td>输入数值，添加动作帧<br>Enter values and add frames</td><td>拖动时间轴，检查动作之间的衔接<br>Scrub a timeline and inspect transitions</td></tr><tr><td>打开动作组，在设备上运行<br>Load an action group and run it on the device</td><td>导入动作库，反复预览和修改<br>Import, preview and revise a motion library</td></tr><tr><td>通过控件逐项编辑参数<br>Edit parameters through controls</td><td>用文字描述动作，再精确调整每帧数值<br>Describe a motion, then refine its joint targets</td></tr></tbody></table><h2>它在项目中的作用<small>Its role in the project</small></h2><p>排练时，我们需要比较“抬手”和“再次邀请”的幅度，让点头与网页回复之间留出停顿，也需要检查收手如何衔接下一段动作。这个工作台把这些选择变成可以播放、修改和保存的轨迹，减少只靠真机来回试动作的次数。</p><p>The workbench makes it easier to compare a first reach with a stronger invitation, leave a pause after a reply, and inspect how an arm returns before the next gesture. These choices become editable sequences that can be replayed and saved.</p><p>3D 预览帮助检查姿态与时间；接触、负载和实际关节限位仍需在真机上确认。<br>The preview supports pose and timing review. Contact, load and physical travel limits still require testing on the robot.</p><p><a href="https://github.com/carrotduck/carrot-goose">GitHub</a> · <a href="https://youtu.be/SYHgv-Zi3hE">演示 / Demonstration</a></p></main></html>

diff --git a/README.md b/README.md
@@ -4,9 +4,11 @@ Carrot Goose is a TonyPi robot project exploring how gestures accompany conversa
 
 胡萝卜鹅探索机器人如何用动作回应对话。项目将 3D 动作编辑、语言驱动的动作规划与 TonyPi 排练代码放在一起，用于编排、预览和调整身体表达。
 
-[Open the workbench](https://carrotduck.online/xiaoji-studio/) · [Watch the demonstration](https://youtu.be/SYHgv-Zi3hE) · [Carrot Duck](https://github.com/carrotduck/carrot-duck)
+[Open the workbench](https://carrotgoose.online/) · [Watch the demonstration](https://youtu.be/SYHgv-Zi3hE) · [Carrot Duck](https://github.com/carrotduck/carrot-duck)
 
 ![Carrot Goose motion workbench](docs/workbench.png)
+
+[From servo programming to motion rehearsal](https://carrotgoose.online/project.html) explains the workbench’s role in the project.
 
 ## Motion rehearsal / 动作排练
 
@@ -37,7 +39,7 @@ Open `http://127.0.0.1:8770`. Editing and playback work locally. For language pl
 node --env-file=.env server.mjs
 ```
 
-The local server listens on this computer only. The hosted workbench uses the existing Carrot Duck account. [Integration notes](docs/integration.md) explain that connection and the move to a future domain.
+The local server listens on this computer only. The hosted workbench uses the existing Carrot Duck account. [Integration notes](docs/integration.md) explain that connection and the dedicated Carrot Goose domain.
 
 ## Project files / 项目结构
 

diff --git a/docs/integration.md b/docs/integration.md
@@ -6,6 +6,8 @@ The hosted adapter verifies the account session, limits request frequency and de
 
 Plans use `simulation_only` and `hardware_executed: false`. Export schemas retain their original version identifiers for compatibility. The public product name is Carrot Goose.
 
-For a new domain, serve `apps/studio` and the planner behind the same origin, replace the account adapter in `editor.js`, and configure HTTPS and account sessions. Existing Carrot Duck login storage belongs to that origin and does not transfer to a new domain. Keep provider credentials on the server.
+The hosted workbench is at `https://carrotgoose.online/`. Use the sign-in dialog with an existing Carrot Duck recovery key to establish a session on this domain.
+
+For another deployment, serve `apps/studio` and the planner behind the same origin, replace the account adapter in `editor.js`, and configure HTTPS and account sessions. Existing Carrot Duck login storage belongs to that origin and does not transfer to a new domain. Keep provider credentials on the server.
 
 The ordinary Duck conversation page and the motion prompt are separate entry points. The simulator sends only its current request and motion context to the planner.
